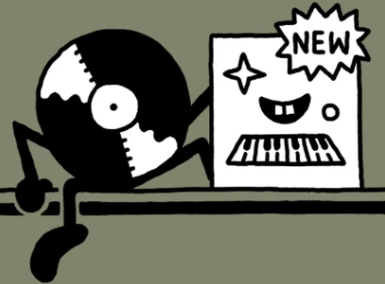
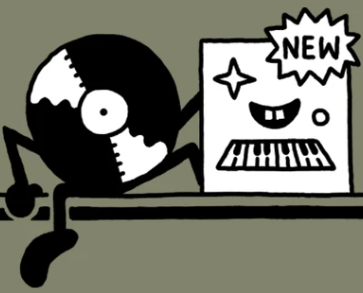
edit about section images

Changed region(s): [[0.0, 0.0, 1.0, 1.0], [0.4545, 0.2254, 0.4848, 0.2817], [0.4242, 0.169, 0.4545, 0.2254]]

diff --git a/styles.css b/styles.css
@@ -66,7 +66,7 @@ a {
 
 @media screen and (min-width: 768px) {
     .primary-btn {
-        padding: 1rem 5rem;
+        padding: 0.8rem 5rem;
     } 
 }
 
@@ -152,7 +152,7 @@ nav .primary-btn {
     font-weight: 600;
 }
 
-@media screen and (min-width: 768px) {
+@media screen and (min-width: 1024px) {
 
     .menu-icon {
         display: none;
@@ -179,7 +179,7 @@ nav .primary-btn {
     }
 
     nav .primary-btn {
-        padding: 1rem 5rem;
+        padding: 0.8rem 5rem;
     }
 }
 
@@ -227,7 +227,7 @@ nav .primary-btn {
     transform: rotate(-10deg);
 }
 
-@media screen and (min-width: 768px){
+@media screen and (min-width: 1024px){
     #hero {
         flex-direction: row;
     }
@@ -253,8 +253,7 @@ nav .primary-btn {
         margin-top: -30%;
         margin-left: -55%;
         transform: rotate(-10deg);
-    }
-    
+    } 
 }
 
 /* About */
@@ -274,6 +273,10 @@ nav .primary-btn {
 
 .about-column-right {
     background-color: #81836C;
+}
+
+.about-column-right img{
+    margin-top: 3.6rem;
 }
 
 .about-column img {
@@ -643,7 +646,6 @@ nav .primary-btn {
 @media screen and (min-width: 768px) {
     #testimonials {
         display: flex;
-        height: 120vh;
     }
 
     .testimonials-left {
@@ -662,7 +664,7 @@ nav .primary-btn {
     }
 
     .testimonials-left, .testimonials-right {
-        height: 120vh;
+        height: 100vh;
         width: 50%;
     } 
 }
@@ -726,7 +728,7 @@ nav .primary-btn {
 
 .footer-section {
     flex: 1;
-    min-width: 200px;
+    min-width: 100px;
 }
 
 .footer-heading {
